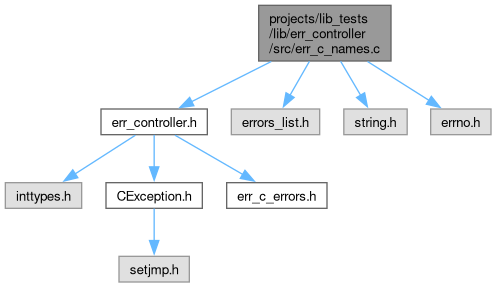
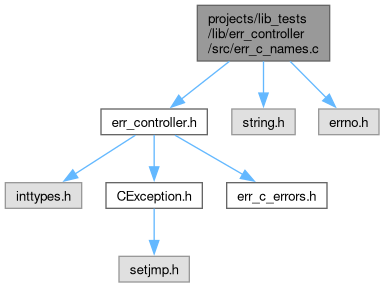
deploy: 12d0a97ec578ac65bfd6748148c42c6eb4a4e4a5

diff --git a/docs/err__c__names_8c.html b/docs/err__c__names_8c.html
@@ -100,7 +100,6 @@ $(document).ready(function(){initNavTree('err__c__names_8c.html',''); initResiza
 <p>Auto generated file with ESP Helper libraries error names.  
 <a href="#details">More...</a></p>
 <div class="textblock"><code>#include &quot;<a class="el" href="err__controller_8h_source.html">err_controller.h</a>&quot;</code><br />
-<code>#include &quot;errors_list.h&quot;</code><br />
 <code>#include &lt;string.h&gt;</code><br />
 <code>#include &lt;errno.h&gt;</code><br />
 </div><div class="textblock"><div class="dynheader">
@@ -108,15 +107,13 @@ Include dependency graph for err_c_names.c:</div>
 <div class="dyncontent">
 <div class="center"><img src="err__c__names_8c__incl.png" border="0" usemap="#aprojects_2lib__tests_2lib_2err__controller_2src_2err__c__names_8c" alt=""/></div>
 <map name="aprojects_2lib__tests_2lib_2err__controller_2src_2err__c__names_8c" id="aprojects_2lib__tests_2lib_2err__controller_2src_2err__c__names_8c">
-<area shape="rect" title="Auto generated file with ESP Helper libraries error names." alt="" coords="259,5,391,61"/>
+<area shape="rect" title="Auto generated file with ESP Helper libraries error names." alt="" coords="197,5,330,61"/>
 <area shape="rect" href="err__controller_8h.html" title="Error helper library header." alt="" coords="101,109,207,135"/>
-<area shape="poly" title=" " alt="" coords="273,64,193,104,190,99,270,59"/>
-<area shape="rect" title=" " alt="" coords="231,109,320,135"/>
-<area shape="poly" title=" " alt="" coords="312,63,292,97,288,94,307,60"/>
-<area shape="rect" title=" " alt="" coords="344,109,407,135"/>
-<area shape="poly" title=" " alt="" coords="343,60,363,94,358,97,338,63"/>
-<area shape="rect" title=" " alt="" coords="431,109,491,135"/>
-<area shape="poly" title=" " alt="" coords="369,59,430,98,427,103,366,64"/>
+<area shape="poly" title=" " alt="" coords="231,63,183,101,180,97,228,59"/>
+<area shape="rect" title=" " alt="" coords="232,109,295,135"/>
+<area shape="poly" title=" " alt="" coords="266,61,266,93,261,93,261,61"/>
+<area shape="rect" title=" " alt="" coords="319,109,379,135"/>
+<area shape="poly" title=" " alt="" coords="292,59,328,96,324,100,288,63"/>
 <area shape="rect" title=" " alt="" coords="5,183,82,208"/>
 <area shape="poly" title=" " alt="" coords="137,137,76,176,73,172,134,133"/>
 <area shape="rect" href="CException_8h_source.html" title=" " alt="" coords="106,183,202,208"/>

diff --git a/docs/err__controller_8h_source.html b/docs/err__controller_8h_source.html
@@ -191,7 +191,7 @@ $(document).ready(function(){initNavTree('err__controller_8h_source.html',''); i
 <div class="ttc" id="aerr__controller_8h_html_a411b28d6c1edab673fa9adb1bfd50ffd"><div class="ttname"><a href="err__controller_8h.html#a411b28d6c1edab673fa9adb1bfd50ffd">err_check_null_pointer</a></div><div class="ttdeci">err_c_t err_check_null_pointer(void *ptr)</div><div class="ttdoc">Check pointer it it's null.</div><div class="ttdef"><b>Definition</b> err_controller.c:24</div></div>
 <div class="ttc" id="aerr__controller_8h_html_a513df0b15ad91ccf741456a5a2bea37a"><div class="ttname"><a href="err__controller_8h.html#a513df0b15ad91ccf741456a5a2bea37a">err_check_bitmask</a></div><div class="ttdeci">err_c_t err_check_bitmask(uint32_t mask, uint32_t value)</div><div class="ttdoc">Check if bitmask matches value.</div><div class="ttdef"><b>Definition</b> err_controller.c:28</div></div>
 <div class="ttc" id="aerr__controller_8h_html_ac80c0e1856884650a683ec9ce2925f65"><div class="ttname"><a href="err__controller_8h.html#ac80c0e1856884650a683ec9ce2925f65">err_c_t</a></div><div class="ttdeci">int32_t err_c_t</div><div class="ttdoc">Standard error type typedef.</div><div class="ttdef"><b>Definition</b> err_controller.h:21</div></div>
-<div class="ttc" id="aerr__controller_8h_html_ad8f4caa10a5c3bbc6b73762ed9f87840"><div class="ttname"><a href="err__controller_8h.html#ad8f4caa10a5c3bbc6b73762ed9f87840">error_to_name</a></div><div class="ttdeci">const char * error_to_name(err_c_t err)</div><div class="ttdoc">Translate error code to error name.</div><div class="ttdef"><b>Definition</b> err_c_names.c:21</div></div>
+<div class="ttc" id="aerr__controller_8h_html_ad8f4caa10a5c3bbc6b73762ed9f87840"><div class="ttname"><a href="err__controller_8h.html#ad8f4caa10a5c3bbc6b73762ed9f87840">error_to_name</a></div><div class="ttdeci">const char * error_to_name(err_c_t err)</div><div class="ttdoc">Translate error code to error name.</div><div class="ttdef"><b>Definition</b> err_c_names.c:20</div></div>
 </div><!-- fragment --></div><!-- contents -->
 </div><!-- doc-content -->
 <!-- start footer part -->

diff --git a/projects/lib_tests/lib/err_controller/src/err_c_names.c b/projects/lib_tests/lib/err_controller/src/err_c_names.c
@@ -9,7 +9,6 @@
  * 
  */
 #include "err_controller.h" 
-#include "errors_list.h"
 #include <string.h>
 
 #ifdef ESP_PLATFORM
